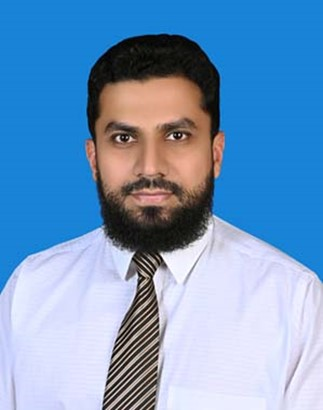
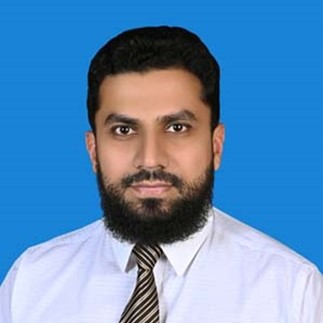
Updated README.md

diff --git a/src/components/Team.js b/src/components/Team.js
@@ -1,16 +1,16 @@
 import * as React from 'react';
 import { Card, CardContent, CardHeader, Typography, Box, Container, Grid, Link } from '@mui/material';
-import { PS, AS } from '../assets/images';
+import { Principal, Author } from '../assets/images';
 
 const members = [
     {
-        avatar: AS,
+        avatar: Author,
         name: 'Muhammad Shahzaib',
         occupation: 'Author',
         email: "kshahzaib9937@gmail.com"
     },
     {
-        avatar: PS,
+        avatar: Principal,
         name: 'Dr. Masood Ur Rehman Kayani',
         occupation: 'Principal Investigator',
         email: "m.kayani@sines.nust.edu.pk"

diff --git a/src/assets/images/index.js b/src/assets/images/index.js
@@ -2,11 +2,9 @@ import Pd0 from './Picture0_dark.png';
 import Pd1 from './Picture1_dark.png';
 import Pl0 from './Picture0_light.png';
 import Pl1 from './Picture1_light.png';
-import PV from './Principal.jpg';
-import PS from './Principal_square.jpg';
-import AV from './Author.jpg';
-import AS from './Author_square.jpg';
+import Principal from './Principal.jpg';
+import Author from './Author.jpg';
 import ll from './logo_light.png';
 import dl from './logo_dark.png';
 
-export { Pd0, Pd1, Pl0, Pl1, PV, PS, AV, AS, ll, dl };
+export { Pd0, Pd1, Pl0, Pl1, Principal, Author, ll, dl };

diff --git a/README.md b/README.md
@@ -1,8 +1,6 @@
 # Microbial Chemoresistance Knowledgebase (MiCK)
 
-## Landing page template
-
-## Usage
+## **Landing page template** Usage
 
 <!-- #default-branch-switch -->
 
